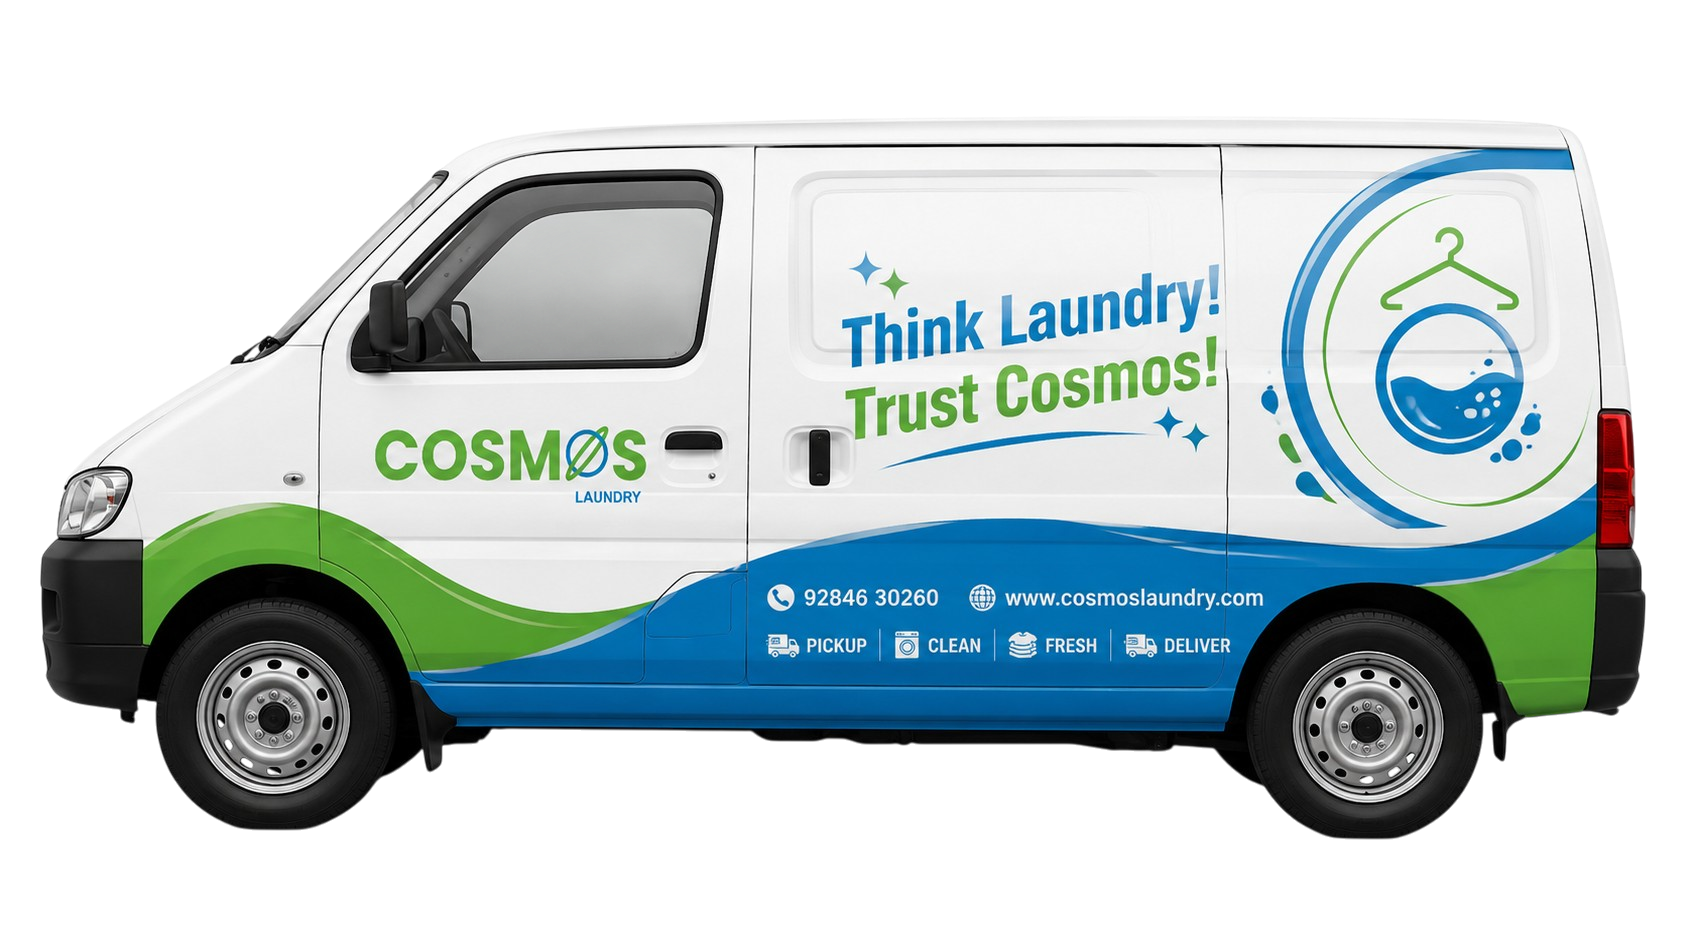
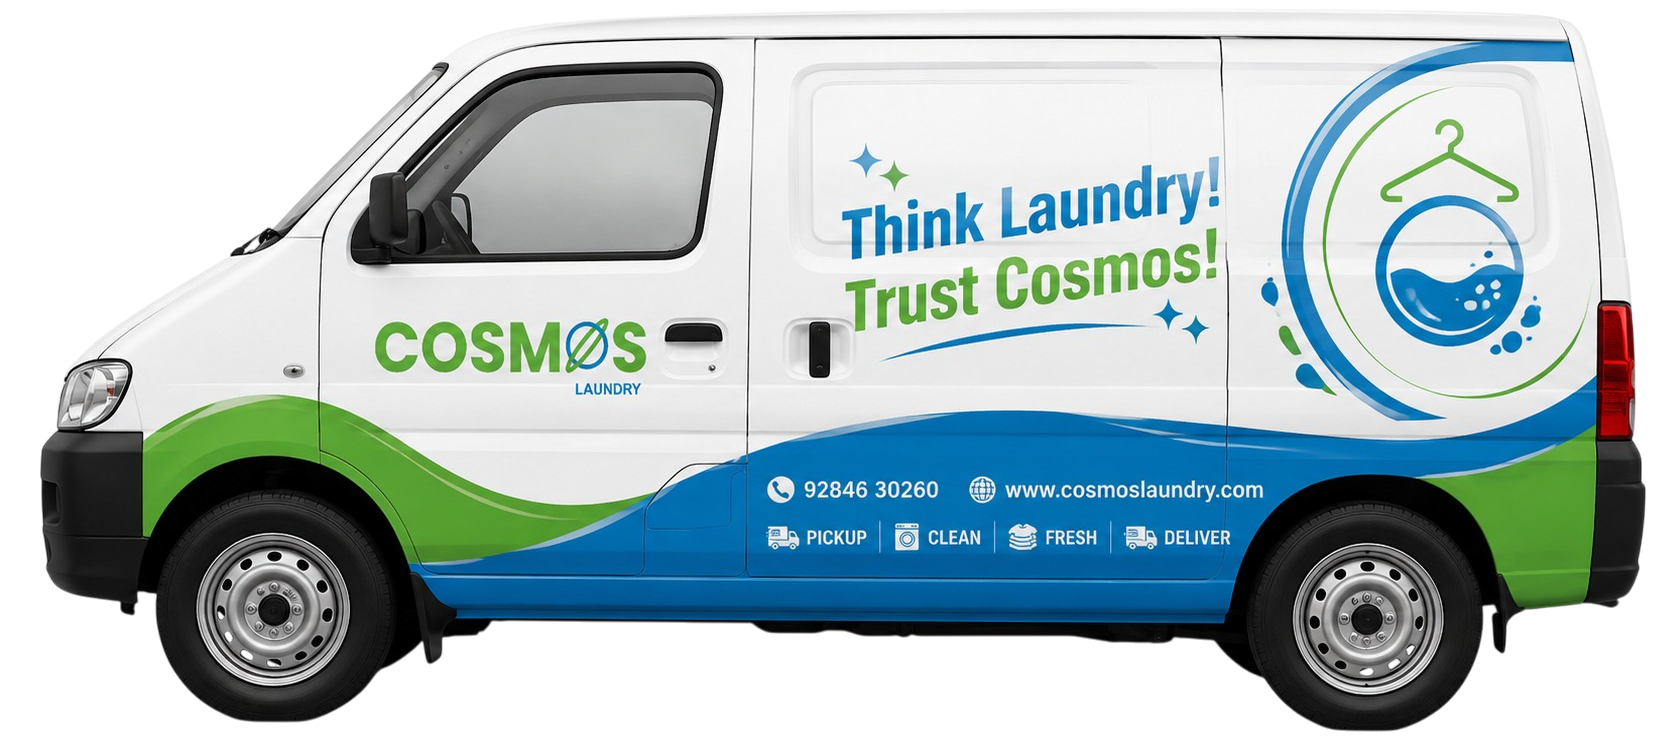
read more button visible on mobile - delivery pickup section van image updated

diff --git a/cosmos/assets/css/style.css b/cosmos/assets/css/style.css
@@ -6000,7 +6000,7 @@ ol.wp-block-rss {
 
 @media (max-width: 1299px) {
   .header-button .th-btn {
-    display: none;
+    display: block;
   }
 }
 

diff --git a/cosmos/components/footer.php b/cosmos/components/footer.php
@@ -19,7 +19,7 @@
 
                 <div class="col-xl-7 col-lg-6 text-center">
                     <div class="van-box" id="vanScrollBox">
-                        <img src="<?php echo BASE_URL; ?>assets/img/services/van.png" alt="Cosmos Laundry" class="img-fluid van-scroll">
+                        <img src="<?php echo BASE_URL; ?>assets/img/services/van.png" alt="Cosmos Laundry" class="img-fluid van-scroll w-75">
                     </div>
                 </div>
             </div>